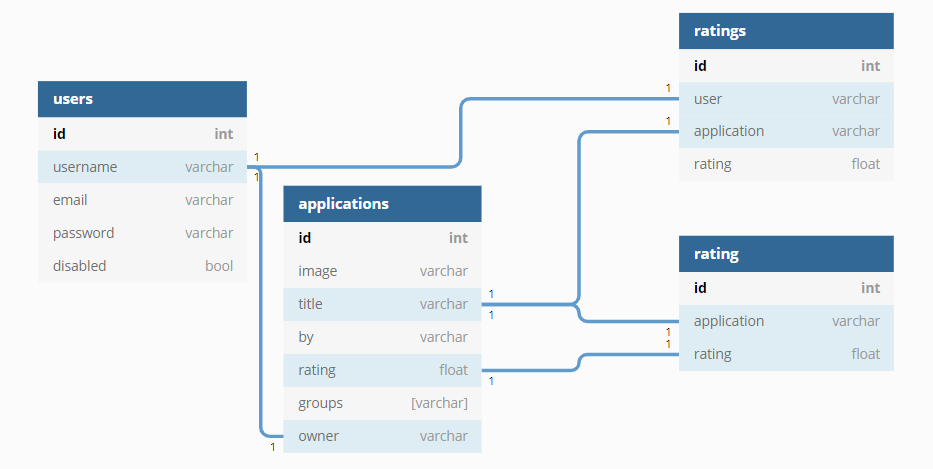
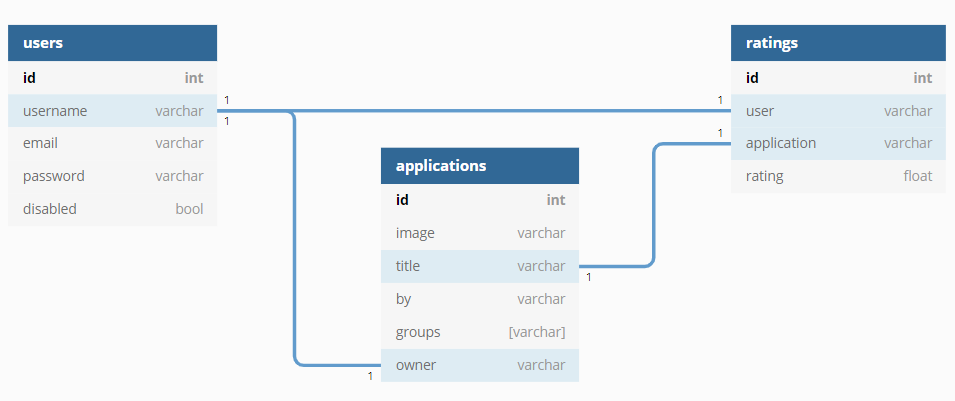
Update schema

diff --git a/api/data.py b/api/data.py
@@ -8,42 +8,135 @@ from utils.db import connect_db
 """Functions for managing a dataset SQL database
     # Schemas
 
-    #################### table ######################
-    column1
-    column2
+    #################### applications ######################
+    image: str
+    title: str
+    by: str
+    groups: [str]
+    owner: user
+    
+    #################### ratings ##########################
+    user: user
+    application: application
+    rating: float
+
+    #################### users ############################
+    username: str
+    email: str
+    password: str
+    disablled: bool
 
 """
 
 
 @connect_db
-def add_item(db, column1, column2):
-    table = db[TABLE]
+def add_application(db, image, title, by, groups, owner):
+    table = db[APPS_TABLE]
     table.upsert(
         {
-            COLUMN1_KEY: column1,
-            COLUMN2_KEY: column2,
+            IMAGE_KEY: image,
+            TITLE_KEY: title,
+            BY_KEY: by,
+            GROUPS_KEY: groups,
+            OWNER_KEY: owner,
         },
-        [COLUMN1_KEY, COLUMN2_KEY],
+        [TITLE_KEY, OWNER_KEY],
     )
 
 
 @connect_db
-def remove_item(db, column1, column2):
-    table = db[TABLE]
-    table.delete(column1=column1, column2=column2)
+def remove_application(db, title):
+    table = db[APPS_TABLE]
+    table.delete(title=title)
 
 
 @connect_db
-def get_item(db, column1):
-    table = db[TABLE]
-    row = table.find_one(column1=column1)
+def get_application(db, title):
+    table = db[APPS_TABLE]
+    row = table.find_one(title=title)
     if row is not None:
-        return row[COLUMN2_KEY]
+        return row
     return None
 
 
 @connect_db
-def get_all_items(db):
-    table = db[TABLE]
+def get_all_applications(db):
+    table = db[APPS_TABLE]
     all_items = table.all()
     return all_items
+
+
+@connect_db
+def add_rating(db, user, application, rating):
+    table = db[RATINGS_TABLE]
+    table.upsert(
+        {
+            USER_KEY: user,
+            APPLICATION_KEY: application,
+            RATING_KEY: rating,
+        },
+        [USER_KEY, APPLICATION_KEY, RATING_KEY],
+    )
+
+
+@connect_db
+def get_user_rating(db, user):
+    table = db[RATINGS_TABLE]
+    row = table.find_one(user=user)
+    if row is not None:
+        return row
+    return None
+
+
+@connect_db
+def get_application_rating(db, application):
+    table = db[RATINGS_TABLE]
+    row = table.find(application=application)
+    avg_rating = sum([rating[RATING_KEY] for rating in row]) / row.count()
+    if row is not None:
+        return avg_rating
+    return None
+
+
+@connect_db
+def get_all_ratings(db):
+    table = db[RATINGS_TABLE]
+    apps = [app[APPLICATION_KEY] for app in table.distinct(APPLICATION_KEY)]
+    all_items = []
+    for app in apps:
+        all_items.append(
+            {
+                APPLICATION_KEY: app,
+                RATING_KEY: get_application_rating(app),
+            }
+        )
+    return all_items
+
+
+@connect_db
+def add_user(db, username, email, password, disabled):
+    table = db[USERS_TABLE]
+    table.upsert(
+        {
+            USERNAME_KEY: username,
+            EMAIL_KEY: email,
+            PASSWORD_KEY: password,
+            DISABLED_KEY: disabled,
+        },
+        [USERNAME_KEY, EMAIL_KEY],
+    )
+
+
+@connect_db
+def remove_user(db, username, email, password):
+    table = db[USERS_TABLE]
+    table.delete(username=username, email=email, password=password)
+
+
+@connect_db
+def get_user(db, username):
+    table = db[USERS_TABLE]
+    row = table.find_one(username=username)
+    if row is not None:
+        return row
+    return None

diff --git a/api/constants.py b/api/constants.py
@@ -3,7 +3,6 @@
 """
 APPS_TABLE = "applications"
 RATINGS_TABLE = "ratings"
-RATING_TABLE = "rating"
 USERS_TABLE = "users"
 
 IMAGE_KEY = "image"
